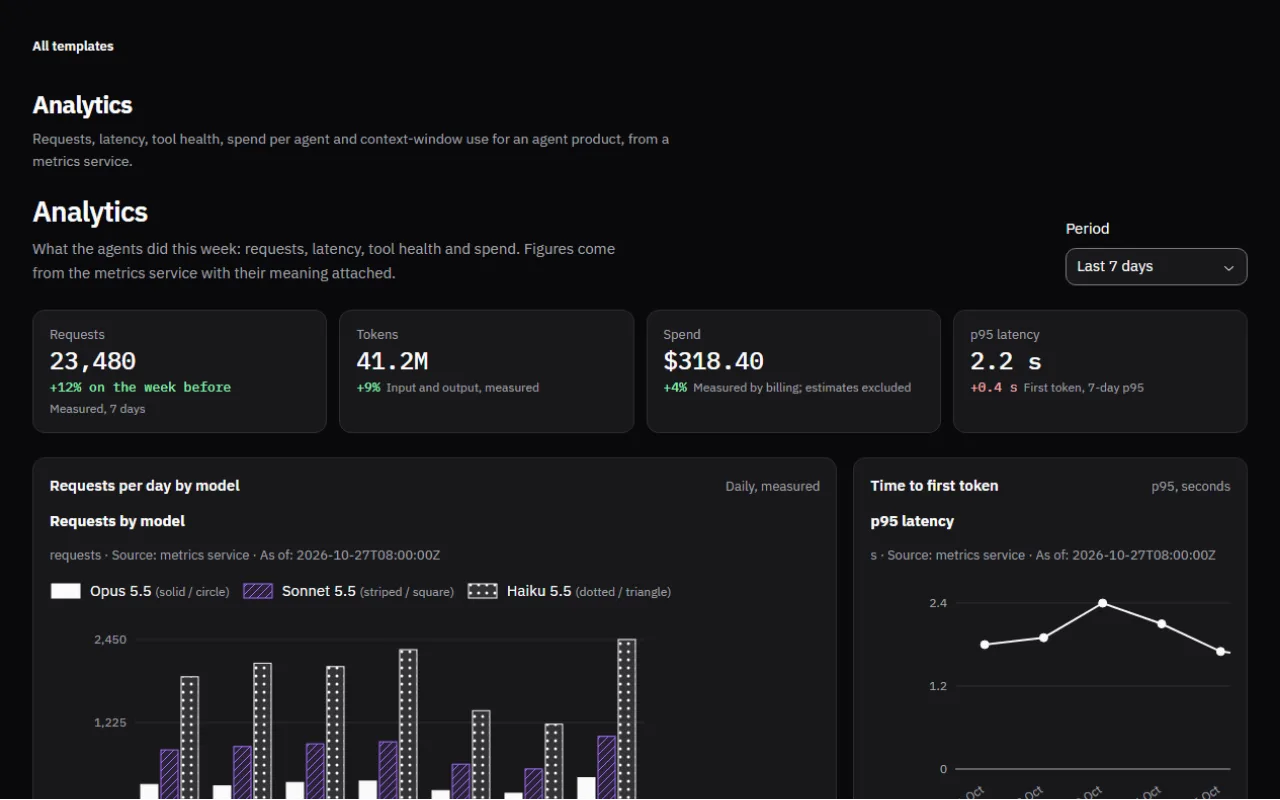
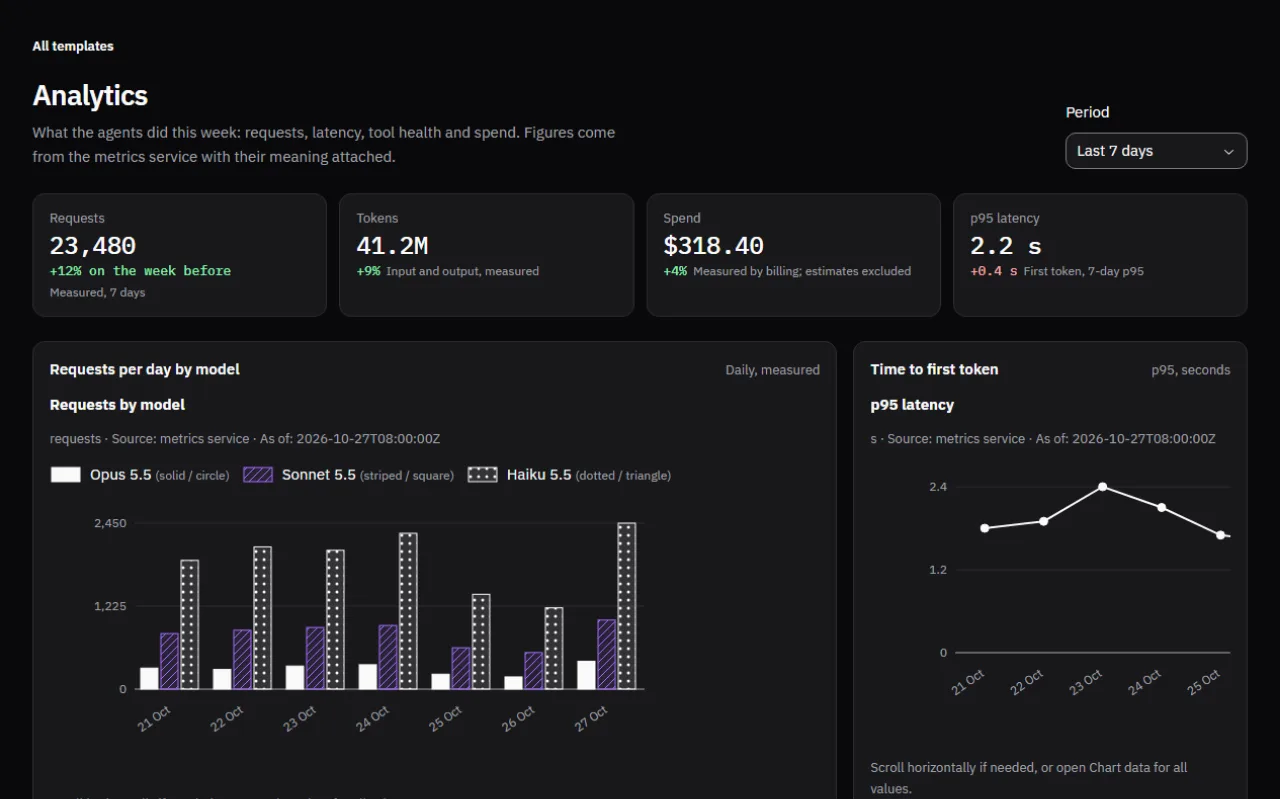
Review pass: single screen titles, nine-template home grid, refreshed evidence line

diff --git a/apps/docs/app/page.tsx b/apps/docs/app/page.tsx
@@ -76,7 +76,7 @@ export default function Page() {
             </div>
             <Link href="/templates/">All templates</Link>
           </div>
-          <TemplateCards />
+          <TemplateCards exclude="/templates/relay/" />
         </section>
         <dl className="home-facts" aria-label="At a glance">
           <div>
@@ -157,7 +157,7 @@ export default function Page() {
             </li>
           </ul>
           <p className="home-why-evidence">
-            Checked 23 October 2026: 2,239 tests pass, and automated accessibility checks (axe) find
+            Checked 28 October 2026: 2,298 tests pass, and automated accessibility checks (axe) find
             no violations on the pages we audit.
           </p>
         </section>

diff --git a/apps/docs/app/templates/settings-billing/page.tsx b/apps/docs/app/templates/settings-billing/page.tsx
@@ -15,10 +15,6 @@ export default function Page() {
       <a className="web-text-link template-workspace-back" href="/templates/">
         All templates
       </a>
-      <header className="template-workspace-heading">
-        <h1>Settings and billing</h1>
-        <p>Workspace settings with a save footer, model defaults and budgets, API keys shown once, and the plan with usage and invoices.</p>
-      </header>
       <SettingsBillingScreen />
     </main>
   );

diff --git a/apps/docs/app/templates/evals/page.tsx b/apps/docs/app/templates/evals/page.tsx
@@ -15,10 +15,6 @@ export default function Page() {
       <a className="web-text-link template-workspace-back" href="/templates/">
         All templates
       </a>
-      <header className="template-workspace-heading">
-        <h1>Evaluations</h1>
-        <p>Scores per suite and model over time, failing cases and a comparison of two runs, from an eval service with the meaning of every number kept.</p>
-      </header>
       <EvalsScreen />
     </main>
   );

diff --git a/apps/docs/app/templates/analytics/page.tsx b/apps/docs/app/templates/analytics/page.tsx
@@ -15,10 +15,6 @@ export default function Page() {
       <a className="web-text-link template-workspace-back" href="/templates/">
         All templates
       </a>
-      <header className="template-workspace-heading">
-        <h1>Analytics</h1>
-        <p>Requests, latency, tool health, spend per agent and context-window use for an agent product, from a metrics service.</p>
-      </header>
       <AnalyticsScreen />
     </main>
   );

diff --git a/apps/docs/components/screens/analytics-screen.tsx b/apps/docs/components/screens/analytics-screen.tsx
@@ -72,7 +72,6 @@ export function AnalyticsScreen() {
   return (
     <div className={s.screen} data-template="analytics">
       <PageHeader
-        headingLevel={2}
         title="Analytics"
         description="What the agents did this week: requests, latency, tool health and spend. Figures come from the metrics service with their meaning attached."
         actions={

diff --git a/apps/docs/components/screens/settings-billing-screen.tsx b/apps/docs/components/screens/settings-billing-screen.tsx
@@ -311,7 +311,6 @@ export function SettingsBillingScreen() {
   return (
     <div className={s.screen} data-template="settings-billing">
       <PageHeader
-        headingLevel={2}
         title="Settings and billing"
         description="General settings, model defaults and budgets, API keys and the plan. Saving asks the server; the footer shows its answer."
       />

diff --git a/apps/docs/components/screens/evals-screen.tsx b/apps/docs/components/screens/evals-screen.tsx
@@ -96,7 +96,6 @@ export function EvalsScreen() {
   return (
     <div className={s.screen} data-template="evals">
       <PageHeader
-        headingLevel={2}
         title="Evaluations"
         description="Scores per suite and model, from the last run of each. Re-running is a request to the eval service."
         actions={
